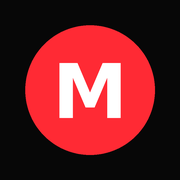
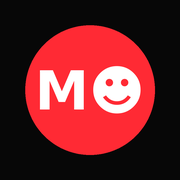
Add files via upload

Changed region(s): [[0.2222, 0.3333, 0.8056, 0.6667]]

diff --git a/index.html b/index.html
@@ -25,7 +25,7 @@
 body{margin:0;background:var(--bg);color:var(--tx);font:16px/1.5 'Barlow',system-ui,sans-serif}
 .wrap{max-width:720px;margin:auto;padding:14px}
 header{display:flex;justify-content:space-between;align-items:center;gap:10px;flex-wrap:wrap;margin-bottom:14px}
-.logo{font:20px 'Russo One',Impact,sans-serif;letter-spacing:2px}.logo b{color:var(--red)}.logo small{display:block;font:600 11px 'Barlow',sans-serif;letter-spacing:2px;color:var(--mu);text-transform:uppercase}
+.logo{font:20px 'Russo One',Impact,sans-serif;letter-spacing:2px}.logo b{color:var(--red);font-size:1.3em;line-height:0;vertical-align:-.06em}.logo small{display:block;font:600 11px 'Barlow',sans-serif;letter-spacing:2px;color:var(--mu);text-transform:uppercase}
 nav{display:flex;gap:4px;background:var(--sf2);padding:4px;border-radius:12px}
 nav button{border:0;background:none;color:var(--mu);padding:8px 16px;border-radius:9px;font-weight:700;cursor:pointer}
 nav button.on{background:var(--red);color:#fff}
@@ -63,6 +63,7 @@ button:focus-visible,input:focus-visible{outline:3px solid var(--red);outline-of
 .exr input.w{width:78px}
 .pt{border-collapse:collapse;margin:8px 0;font-size:14px}.pt th,.pt td{padding:4px 18px 4px 0;border-bottom:1px solid var(--ln);text-align:left}
 details{margin-top:12px}summary{cursor:pointer;font-weight:700}
+.hb{padding:9px 16px;font-size:14px}
 .exr{display:flex;gap:6px;align-items:center}.exr input{width:58px;padding:8px;border-radius:9px;border:1px solid var(--ln);background:var(--sf2);color:var(--tx)}
 .exr button{border:0;background:var(--sf2);color:var(--tx);width:38px;height:38px;border-radius:10px;font-size:18px;cursor:pointer}
 .stats{display:grid;grid-template-columns:repeat(4,1fr);gap:8px}.stat{background:var(--sf2);border-radius:14px;padding:12px 6px;text-align:center}.stat b{display:block;font:24px 'Russo One',Impact,sans-serif}.stat span{font-size:11px;color:var(--mu);text-transform:uppercase;letter-spacing:1px}
@@ -77,7 +78,7 @@ textarea{width:100%;height:90px;background:var(--sf2);color:var(--tx);border:1px
 </head>
 <body>
 <div class="wrap">
-<header><div class="logo">M<b>O</b>MENTUM<small id="sub">Daily Mission</small></div>
+<header><div class="logo"><span role="img" aria-label="Momentum">M<b>☻</b>MENTUM</span><small id="sub">Daily Mission</small></div>
 <nav role="tablist" aria-label="Sections"><button role="tab" data-a="tab" data-v="today">Today</button><button role="tab" data-a="tab" data-v="prog">Progress</button></nav><button id="who" class="chip" data-a="logout" hidden>Sign out</button></header>
 <main id="app" aria-live="polite"></main>
 <p class="fine">Momentum offers educational fitness guidance, not medical advice, diagnosis or treatment. Stop any exercise that causes sharp, worsening or unusual pain, and check with your doctor before starting a new program.</p>
@@ -252,7 +253,7 @@ const fresh=()=>({days:{},prog:{},lad:{},wt:{},owner:null,set:{equip:[],time:30,
 function load(){try{const s=JSON.parse(localStorage.getItem(KEY));return s&&s.days?{...fresh(),...s}:fresh()}catch(e){return fresh()}}
 /* ---- Supabase settings: paste yours here (see SETUP steps). The anon key is safe to be public. ---- */
 const SB_URL="https://ynmtqanqdgpogkxvbrel.supabase.co",SB_KEY="eyJhbGciOiJIUzI1NiIsInR5cCI6IkpXVCJ9.eyJpc3MiOiJzdXBhYmFzZSIsInJlZiI6InlubXRxYW5xZGdwb2dreHZicmVsIiwicm9sZSI6ImFub24iLCJpYXQiOjE3OTMxOTk1NzIsImV4cCI6MjEwODc3NTU3Mn0.msfx5ZQOlDmhy7Ir7WBdcQXnGw4igLjA5pDcV4ktp7A";
-const sb=(window.supabase&&SB_URL.startsWith("https://"))?window.supabase.createClient(SB_URL,SB_KEY,{auth:{persistSession:true,autoRefreshToken:true,detectSessionInUrl:true}}):null;
+let sb=null;
 let S=load(),view="today",F=null,user=null,pt,synced=false,authReady=false,otpEmail=null;
 function save(){try{localStorage.setItem(KEY,JSON.stringify(S))}catch(e){}if(user){clearTimeout(pt);pt=setTimeout(push,1500)}}
 const key=d=>`${d.getFullYear()}-${String(d.getMonth()+1).padStart(2,"0")}-${String(d.getDate()).padStart(2,"0")}`;
@@ -309,8 +310,8 @@ function formV(){if(!F)initF();
  else if(st===2)b=hd("How is your energy?","Be honest. Momentum works better when the input is real.")+scale("energy",["Empty","Low","Steady","High","Locked in"])+nav(F.energy!=null);
  else if(st===3)b=hd("How stressed are you?","Higher stress lowers today’s recommended intensity.")+scale("stress",["Calm","Light","Moderate","High","Maxed"])+nav(F.stress!=null);
  else if(st===4)b=hd("Any pain or restriction?","Pick every area that hurts or feels restricted. Moves that load those areas are left out.")+`<div class="chips">${PAIN.map(([v,l])=>chip("pain",v,l,F.pain.includes(v))).join("")}${chip("pain","none","No pain today",F.pain.length===0)}</div>`+nav(true);
- else b=hd("Time and equipment","Bodyweight is always included.")+`<h3>Time</h3><div class="chips">${TIMES.map(t=>chip("time",t,t+" min",F.time===t)).join("")}</div>
- <h3>Equipment</h3><div class="chips">${EQ.map(([v,l])=>chip("equip",v,l,F.equip.includes(v))).join("")}</div>
+ else b=hd("Time and equipment","Pick what you have. Bodyweight moves are always included.")+`<h3>Time</h3><div class="chips">${TIMES.map(t=>chip("time",t,t+" min",F.time===t)).join("")}</div>
+ <h3>Equipment</h3><div class="chips">${chip("equip","none","Bodyweight only (at home)",F.equip.length===0)}${EQ.map(([v,l])=>chip("equip",v,l,F.equip.includes(v))).join("")}</div>${F.equip.length===0?`<p class="muted">Only moves that need no equipment, all doable at home.</p>`:""}
  <h3>Weight units</h3><div class="chips">${[["lb","Pounds (lb)"],["kg","Kilograms (kg)"]].map(([v,l])=>chip("units",v,l,F.units===v)).join("")}</div>
  ${Object.keys(S.lad).length?"":`<h3>Your training level</h3><p class="muted">Sets your starting point on each movement. After that, the app moves you up on its own.</p><div class="chips">${[["beg","Beginner"],["int","Intermediate"],["adv","Advanced"]].map(([v,l])=>chip("level",v,l,F.level===v)).join("")}</div>`}
  <label style="display:flex;gap:10px;align-items:flex-start;margin-top:8px"><input type="checkbox" data-a="red" ${F.red?"checked":""}><span>I have sharp or worsening pain, numbness, chest pain or dizziness.</span></label>`+nav(true,true);
@@ -367,8 +368,8 @@ function progV(){
  <section class="card"><h3>Points</h3><div class="stats" style="grid-template-columns:repeat(3,1fr)"><div class="stat"><b>${pts.p}</b><span>Points</span></div><div class="stat"><b>${pts.bw}</b><span>Bonus workouts</span></div><div class="stat"><b>${pts.mw+pts.bw}</b><span>All workouts</span></div></div><p class="muted">${PTS_MAIN} points for each daily mission, ${PTS_BONUS} bonus points for each bonus workout.</p></section><section class="card"><h3>How you’ve felt</h3>${feel}</section><section class="card"><h3>Readiness trend</h3>${spark(sc)}</section><section class="card"><h3>Last 28 days</h3><div class="heat">${heat}</div><p class="muted">Green = finished, tinted = checked in.</p></section>
  <section class="card"><h3>Your levels</h3>${lv}</section>${wcard}<section class="card"><h3>Current targets</h3>${pr}</section><section class="card"><h3>Recent workouts</h3>${hist}</section>
  <section class="card"><h3>Backup</h3><p class="muted">Data lives only in this browser. Copy the backup text somewhere safe, or paste one here to restore.</p><textarea id="bk" aria-label="Backup data"></textarea><button class="btn ghost" data-a="bkshow">Show backup</button> <button class="btn ghost" data-a="bkload">Restore</button></section>`}
-function render(){const sbt=$("#sub");if(sbt)sbt.textContent=user?"Signed in · "+user.email:"Daily Mission";const wb=$("#who");if(wb){wb.hidden=!user;wb.textContent="Sign out";wb.setAttribute("aria-label",user?"Sign out of "+user.email:"Sign out")}
-document.querySelectorAll("nav button").forEach(b=>{const on=b.dataset.v===view;b.classList.toggle("on",on);b.setAttribute("aria-selected",on)});$("#app").innerHTML=(view==="today"?todayV():progV())+(view==="today"&&user?"":accV())}
+function render(){const sbt=$("#sub");if(sbt)sbt.textContent=user?"Signed in · "+user.email:"Daily Mission";const wb=$("#who");if(wb){wb.hidden=!(user||!sb||authReady);wb.className=user?"chip":"btn hb";wb.textContent=user?"Sign out":"Sign in";wb.setAttribute("data-a",user?"logout":"gosign");wb.setAttribute("aria-label",user?"Sign out of "+user.email:"Sign in")}
+document.querySelectorAll("nav button").forEach(b=>{const on=b.dataset.v===view;b.classList.toggle("on",on);b.setAttribute("aria-selected",on)});$("#app").innerHTML=(view==="signin"?signinV():view==="today"?todayV():progV())+(view==="signin"||(view==="today"&&user)?"":accV())}
 function finish(wi){const k=today(),d=S.days[k],bn=wi!==undefined&&wi!=="",wk=bn?d.bonus[+wi]:d,rpe=+$("#rpe").value,up=[];
  if(!wk.plan.some(p=>wk.log[p.n]&&wk.log[p.n].done)){$("#msg").textContent="Tick off at least one exercise first.";return}
  const nw=recW(wk,k);if(nw)up.push(`Weights saved for ${nw} exercise${nw>1?"s":""}.`);
@@ -397,7 +398,7 @@ document.addEventListener("click",e=>{const b=e.target.closest("[data-a]");if(!b
  else if(a==="pick"){F[b.dataset.k]=+b.dataset.v}
  else if(a==="next"){F.step=Math.min(5,F.step+1)}
  else if(a==="back"){F.step=Math.max(1,F.step-1)}
- else if(a==="chip"){const g=b.dataset.g,v=b.dataset.v;if(g==="time")F.time=+v;else if(g==="level")F.level=v;else if(g==="units")F.units=v;else if(g==="pain"&&v==="none")F.pain=[];else{const arr=F[g],x=arr.indexOf(v);x<0?arr.push(v):arr.splice(x,1)}}
+ else if(a==="chip"){const g=b.dataset.g,v=b.dataset.v;if(g==="time")F.time=+v;else if(g==="level")F.level=v;else if(g==="units")F.units=v;else if(g==="pain"&&v==="none")F.pain=[];else if(g==="equip"&&v==="none")F.equip=[];else{const arr=F[g],x=arr.indexOf(v);x<0?arr.push(v):arr.splice(x,1)}}
  else if(a==="go"){const ck={...F,pain:[...F.pain],equip:[...F.equip]},prev=S.days[k];delete ck.step;ck.sleep=ck.sleep||6;ck.energy=ck.energy||6;ck.stress=ck.stress||5;S.set.time=ck.time;S.set.equip=ck.equip;S.set.level=ck.level;S.set.units=ck.units||S.set.units||"lb";delete ck.units;const nd={ck,salt:prev?(prev.salt||0)+1:0,log:{},fin:null};if(!ck.red){awayAdj(k);nd.plan=build(k,ck,nd.salt)}S.days[k]=nd;F=null;save()}
  else if(a==="edit"){F=null;initF();S.days[k]={...d,ck:null}}
  else if(a==="regen"){if(w!==d){w.salt=(w.salt||0)+1;w.plan=build(k,d.ck,"b"+b.dataset.w+"-"+w.salt,{focus:w.focus,time:w.time,bonus:true});w.log={}}else{d.salt++;d.plan=build(k,d.ck,d.salt);d.log={}}save()}
@@ -415,6 +416,7 @@ document.addEventListener("click",e=>{const b=e.target.closest("[data-a]");if(!b
  else if(a==="login"){login();return}
  else if(a==="verify"){verify();return}
  else if(a==="otpback"){otpEmail=null}
+ else if(a==="gosign"){view="signin";try{scrollTo(0,0)}catch(e){}}
  else if(a==="logout"){logout(b);return}
  else if(a==="bkshow"){$("#bk").value=JSON.stringify(S);return}
  else if(a==="bkload"){try{const x=JSON.parse($("#bk").value);if(x&&x.days){S={...fresh(),...x};save()}}catch(err){$("#bk").value="Could not read that backup."}}
@@ -425,6 +427,10 @@ document.addEventListener("input",e=>{const t=e.target,a=t.dataset.a;if(!a)retur
  else if(a==="red"){F.red=t.checked}
  else if(a==="num"){const d=S.days[today()],wk=t.dataset.w?d.bonus[+t.dataset.w]:d,n=wk.plan[+t.dataset.i].n;wk.log[n]=wk.log[n]||{};wk.log[n].a=+t.value;save()}
  else if(a==="wt"){const d=S.days[today()],wk=t.dataset.w?d.bonus[+t.dataset.w]:d,n=wk.plan[+t.dataset.i].n;wk.log[n]=wk.log[n]||{};const v=parseFloat(t.value);if(v>0)wk.log[n].kg=fromU(Math.min(v,2000));else delete wk.log[n].kg;save()}});
+function signinV(){const hd=`<section class="card"><h2>Sign in</h2><p class="muted">Sign in with your email from any browser or device. Your workouts, levels, weights and points stay with that email.</p></section>`,bk=`<p><button class="btn ghost" data-a="tab" data-v="today">Back</button></p>`;
+ if(!sb)return hd+`<section class="card"><h3>Sign-in unavailable</h3><p class="muted">The sign-in service didn’t load. Check your connection, then close and reopen the app. If you use a content blocker, allow this site.</p></section>`+bk;
+ if(!authReady)return hd+`<section class="card"><p class="muted">Checking your sign-in…</p></section>`+bk;
+ return hd+accV()+bk}
 const esc=t=>String(t).replace(/[&<>"']/g,c=>({"&":"&amp;","<":"&lt;",">":"&gt;",'"':"&quot;","'":"&#39;"}[c]));
 function accV(){if(!sb||!authReady)return"";
  if(user)return`<section class="card"><h3>Account</h3><p class="muted">Signed in as ${esc(user.email)}. This device stays signed in until you tap Sign out.</p><button class="btn ghost" data-a="logout">Sign out</button></section>`;
@@ -436,22 +442,29 @@ async function verify(){const code=($("#otp").value||"").replace(/\s/g,""),m=$("
  for(const type of["email","magiclink","signup"]){const r=await sb.auth.verifyOtp({email:otpEmail,token:code,type});if(!r.error){otpEmail=null;return}}
  m.textContent="That code didn’t work. Check it and try again, or go back and request a new one."}
 function mergeS(a,b){const m={...fresh(),...a,days:{...b.days,...a.days},prog:{...a.prog},lad:{...(b.lad||{}),...(a.lad||{})},wt:mergeWt(a.wt,b.wt)};for(const k in b.days){const x=a.days[k],y=b.days[k];if(x&&y&&((y.fin&&!x.fin)||bonusDone(y).length>bonusDone(x).length))m.days[k]=y}for(const n in(b.prog||{})){if(!m.prog[n]||b.prog[n].t>m.prog[n].t)m.prog[n]=b.prog[n]}for(const id in(b.lad||{})){const L=LADS.find(x=>x.id===id),ai=L?L.steps.findIndex(e=>e.name===(a.lad||{})[id]):-1,bi=L?L.steps.findIndex(e=>e.name===b.lad[id]):-1;if(bi>ai)m.lad[id]=b.lad[id]}return m}
-async function pull(){if(!sb||!user)return;const uid=user.id;let ok=false;try{
+async function pull(quiet){if(!sb||!user)return;const uid=user.id,before=quiet?JSON.stringify(S):null;let ok=false;try{
  const r=await sb.from("progress").select("data").eq("user_id",uid).maybeSingle();if(r.error)throw r.error;if(!user||user.id!==uid)return;
  const cloud=r.data&&r.data.data&&r.data.data.days?r.data.data:null;
  if(S.owner&&S.owner!==uid)S=cloud?{...fresh(),...cloud}:fresh();else if(cloud)S=mergeS(S,cloud);
  S.owner=uid;synced=true;ok=true;try{localStorage.setItem(KEY,JSON.stringify(S))}catch(e){}await push()
  }catch(e){if(user&&user.id===uid&&S.owner&&S.owner!==uid){S=fresh();try{localStorage.removeItem(KEY)}catch(x){}}}
- render()}
+ if(!quiet||JSON.stringify(S)!==before)render()}
 async function push(){if(!sb||!user)return false;if(!synced){await pull();return synced}try{const r=await sb.from("progress").upsert({user_id:user.id,data:S,updated_at:new Date().toISOString()});return!(r&&r.error)}catch(e){return false}}
 async function logout(b){if(!sb)return;clearTimeout(pt);if(b)b.textContent="Saving…";const ok=await push();if(!ok){if(b)b.textContent="Couldn’t save. Try again";return}
  S=fresh();try{localStorage.removeItem(KEY)}catch(e){}try{await sb.auth.signOut()}catch(e){}user=null;view="today";F=null;render()}
-if(sb){sb.auth.onAuthStateChange((ev,sess)=>{authReady=true;const nu=sess?sess.user:null,changed=!!nu&&(!user||user.id!==nu.id);user=nu;
- if(!user){synced=false;render();return}
- try{if(navigator.storage&&navigator.storage.persist)navigator.storage.persist()}catch(e){}
- if(changed||!synced){if(changed)synced=false;setTimeout(pull,0)}});
+function initSb(){if(sb||!window.supabase||!SB_URL.startsWith("https://"))return;
+ sb=window.supabase.createClient(SB_URL,SB_KEY,{auth:{persistSession:true,autoRefreshToken:true,detectSessionInUrl:true}});
+ sb.auth.onAuthStateChange((ev,sess)=>{authReady=true;const nu=sess?sess.user:null,changed=!!nu&&(!user||user.id!==nu.id);user=nu;
+  if(!user){synced=false;render();return}
+  try{if(navigator.storage&&navigator.storage.persist)navigator.storage.persist()}catch(e){}
+  if(changed&&view==="signin")view="today";
+  if(changed||!synced){if(changed)synced=false;setTimeout(pull,0)}});
  setTimeout(()=>{if(!authReady){authReady=true;render()}},2500)}
-try{const l=document.querySelector('link[rel="apple-touch-icon"]');if(l){const im=new Image();im.onerror=()=>{try{const c=document.createElement("canvas");c.width=c.height=180;const x=c.getContext("2d");x.fillStyle="#070707";x.fillRect(0,0,180,180);x.fillStyle="#ff2a34";x.beginPath();x.arc(90,90,65,0,7);x.fill();x.fillStyle="#fff";x.font="bold 76px Arial,Helvetica,sans-serif";x.textAlign="center";x.textBaseline="middle";x.fillText("M",90,94);l.href=c.toDataURL("image/png")}catch(e){}};im.src=l.href}}catch(e){}
+initSb();
+if(!sb&&SB_URL.startsWith("https://")){try{const sc=document.createElement("script");sc.src="https://unpkg.com/@supabase/supabase-js@2.45.4/dist/umd/supabase.js";sc.onload=()=>{initSb();render()};document.head.appendChild(sc)}catch(e){}}
+document.addEventListener("visibilitychange",()=>{if(!user||!synced)return;if(document.visibilityState==="hidden"){clearTimeout(pt);push()}else pull(true)});
+addEventListener("pagehide",()=>{if(user&&synced){clearTimeout(pt);push()}});
+try{const l=document.querySelector('link[rel="apple-touch-icon"]');if(l){const im=new Image();im.onerror=()=>{try{const c=document.createElement("canvas");c.width=c.height=180;const x=c.getContext("2d");x.fillStyle="#070707";x.fillRect(0,0,180,180);x.fillStyle="#ff2a34";x.beginPath();x.arc(90,90,65,0,7);x.fill();x.fillStyle="#fff";x.font="bold 54px Arial,Helvetica,sans-serif";x.textAlign="center";x.textBaseline="middle";x.fillText("M☻",90,92);l.href=c.toDataURL("image/png")}catch(e){}};im.src=l.href}}catch(e){}
 if("serviceWorker"in navigator)addEventListener("load",()=>navigator.serviceWorker.register("sw.js").catch(()=>{}));
 render();
 </script>

diff --git a/sw.js b/sw.js
@@ -1,4 +1,4 @@
-const C="momentum-v2",A=["./","index.html","manifest.webmanifest","icon.svg","icon-192.png","icon-512.png","apple-touch-icon.png"];
+const C="momentum-v3",A=["./","index.html","manifest.webmanifest","icon.svg","icon-192.png","icon-512.png","apple-touch-icon.png"];
 self.addEventListener("install",e=>{e.waitUntil(caches.open(C).then(c=>Promise.all(A.map(u=>c.add(u).catch(()=>{})))));self.skipWaiting()});
 self.addEventListener("activate",e=>{e.waitUntil(caches.keys().then(k=>Promise.all(k.filter(x=>x!==C).map(x=>caches.delete(x)))));self.clients.claim()});
 self.addEventListener("fetch",e=>{const u=new URL(e.request.url);if(e.request.method!=="GET"||u.origin!==location.origin||e.request.headers.has("range")||/\.(mp4|webm|mov)$/i.test(u.pathname))return;
